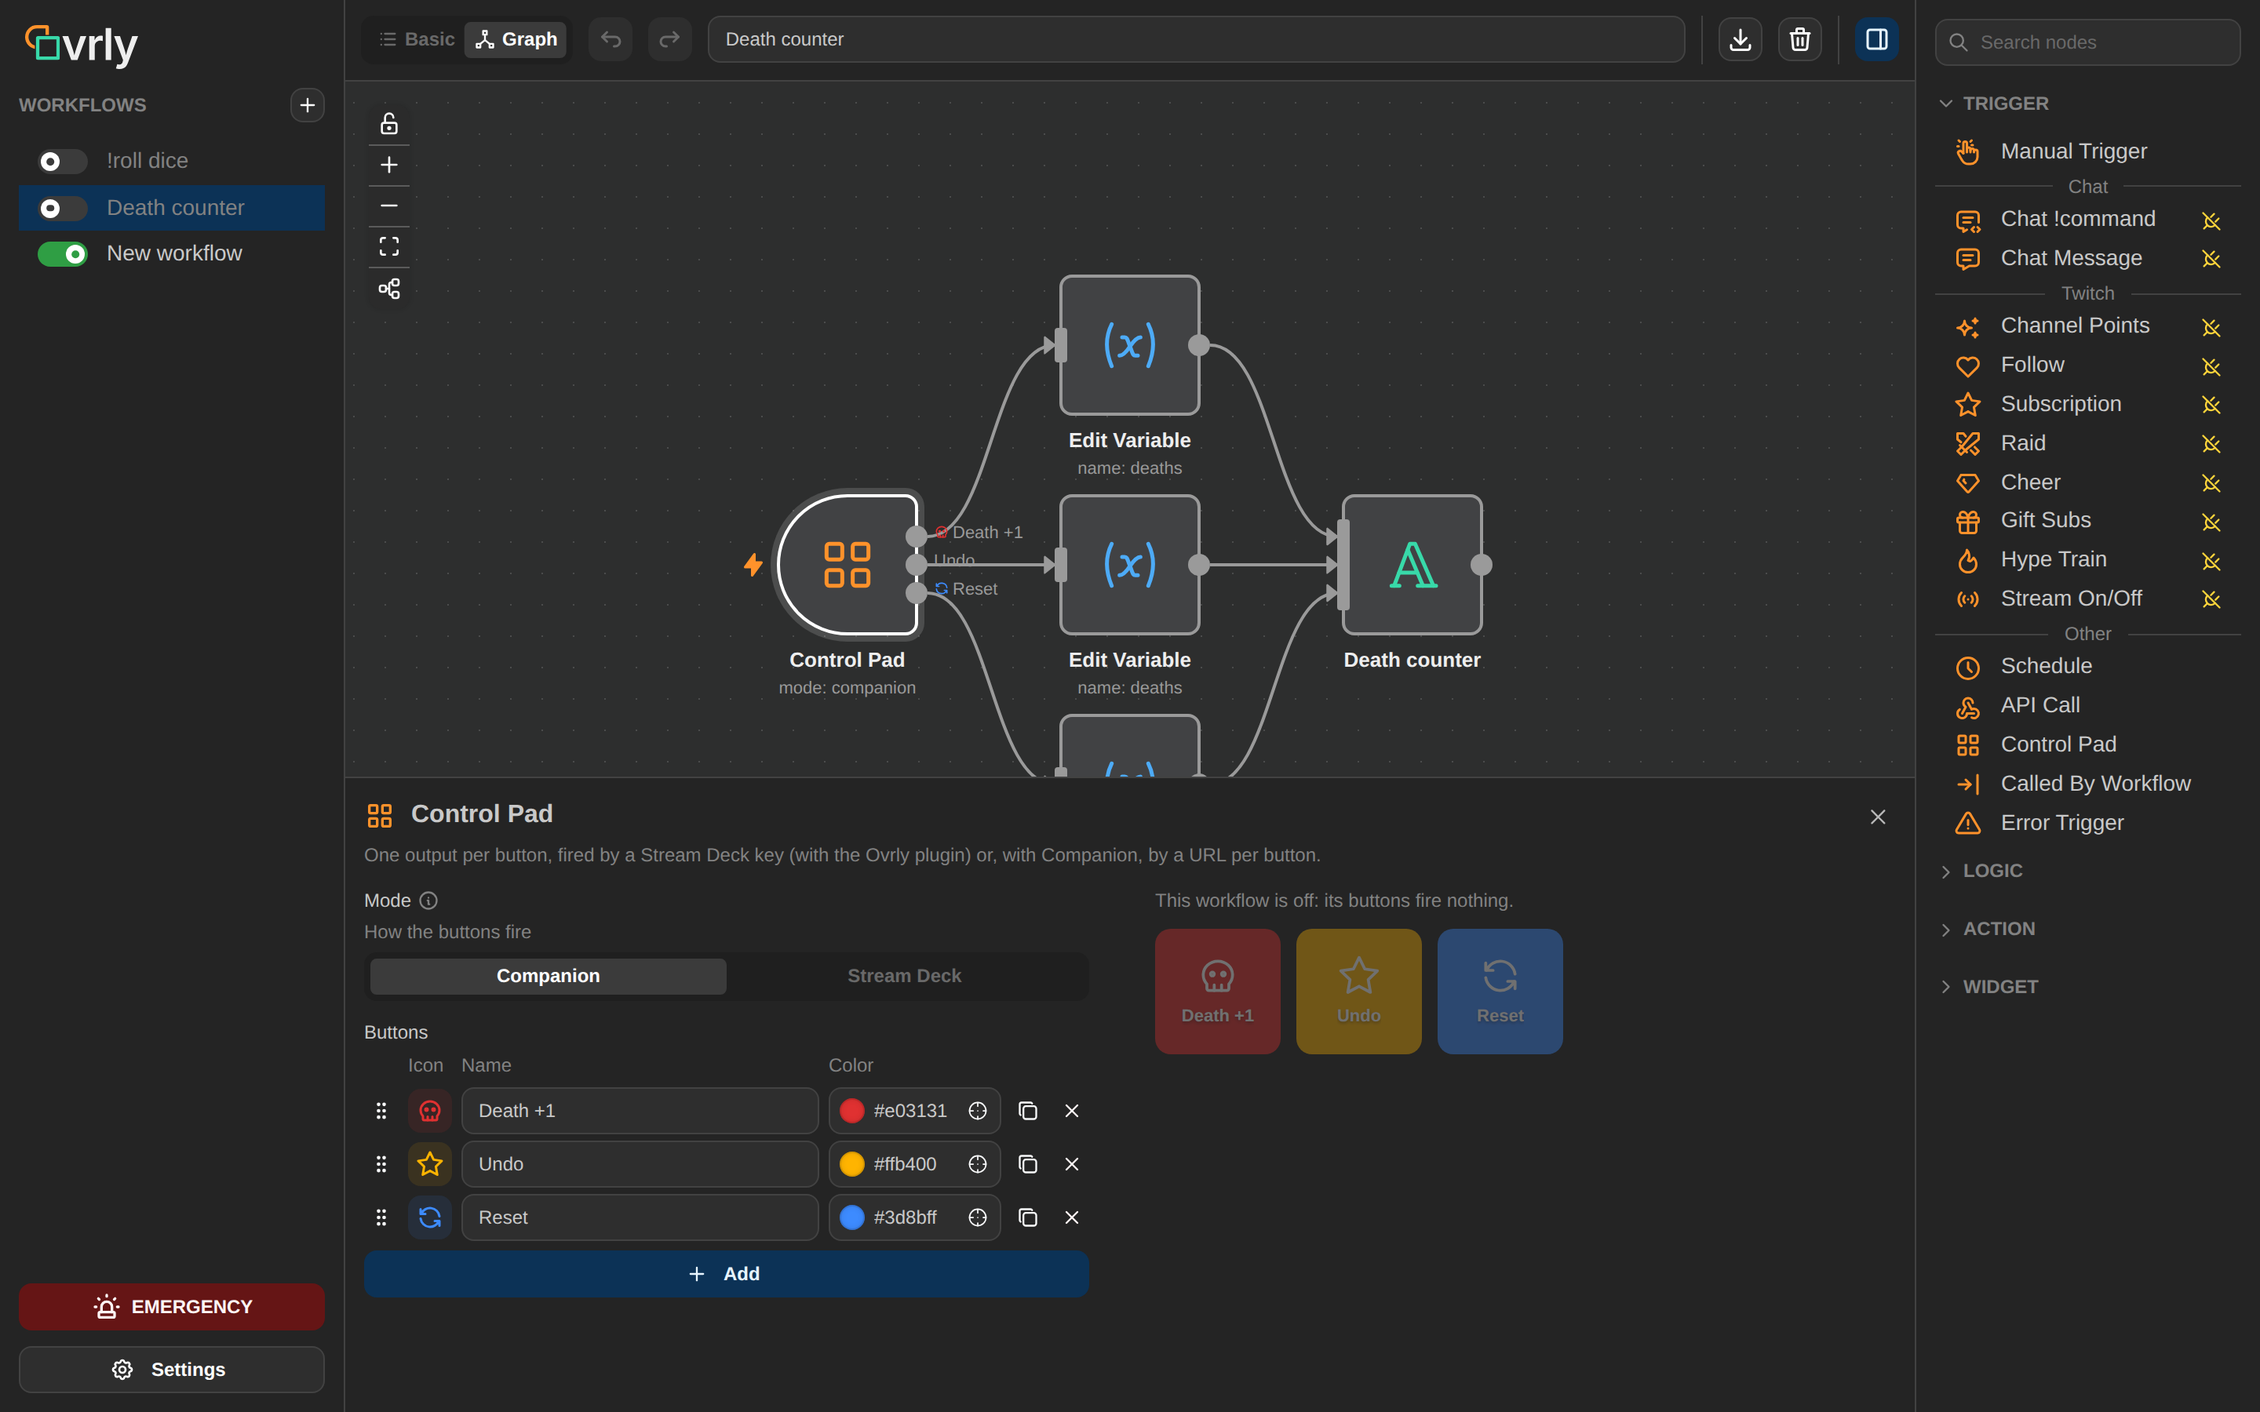
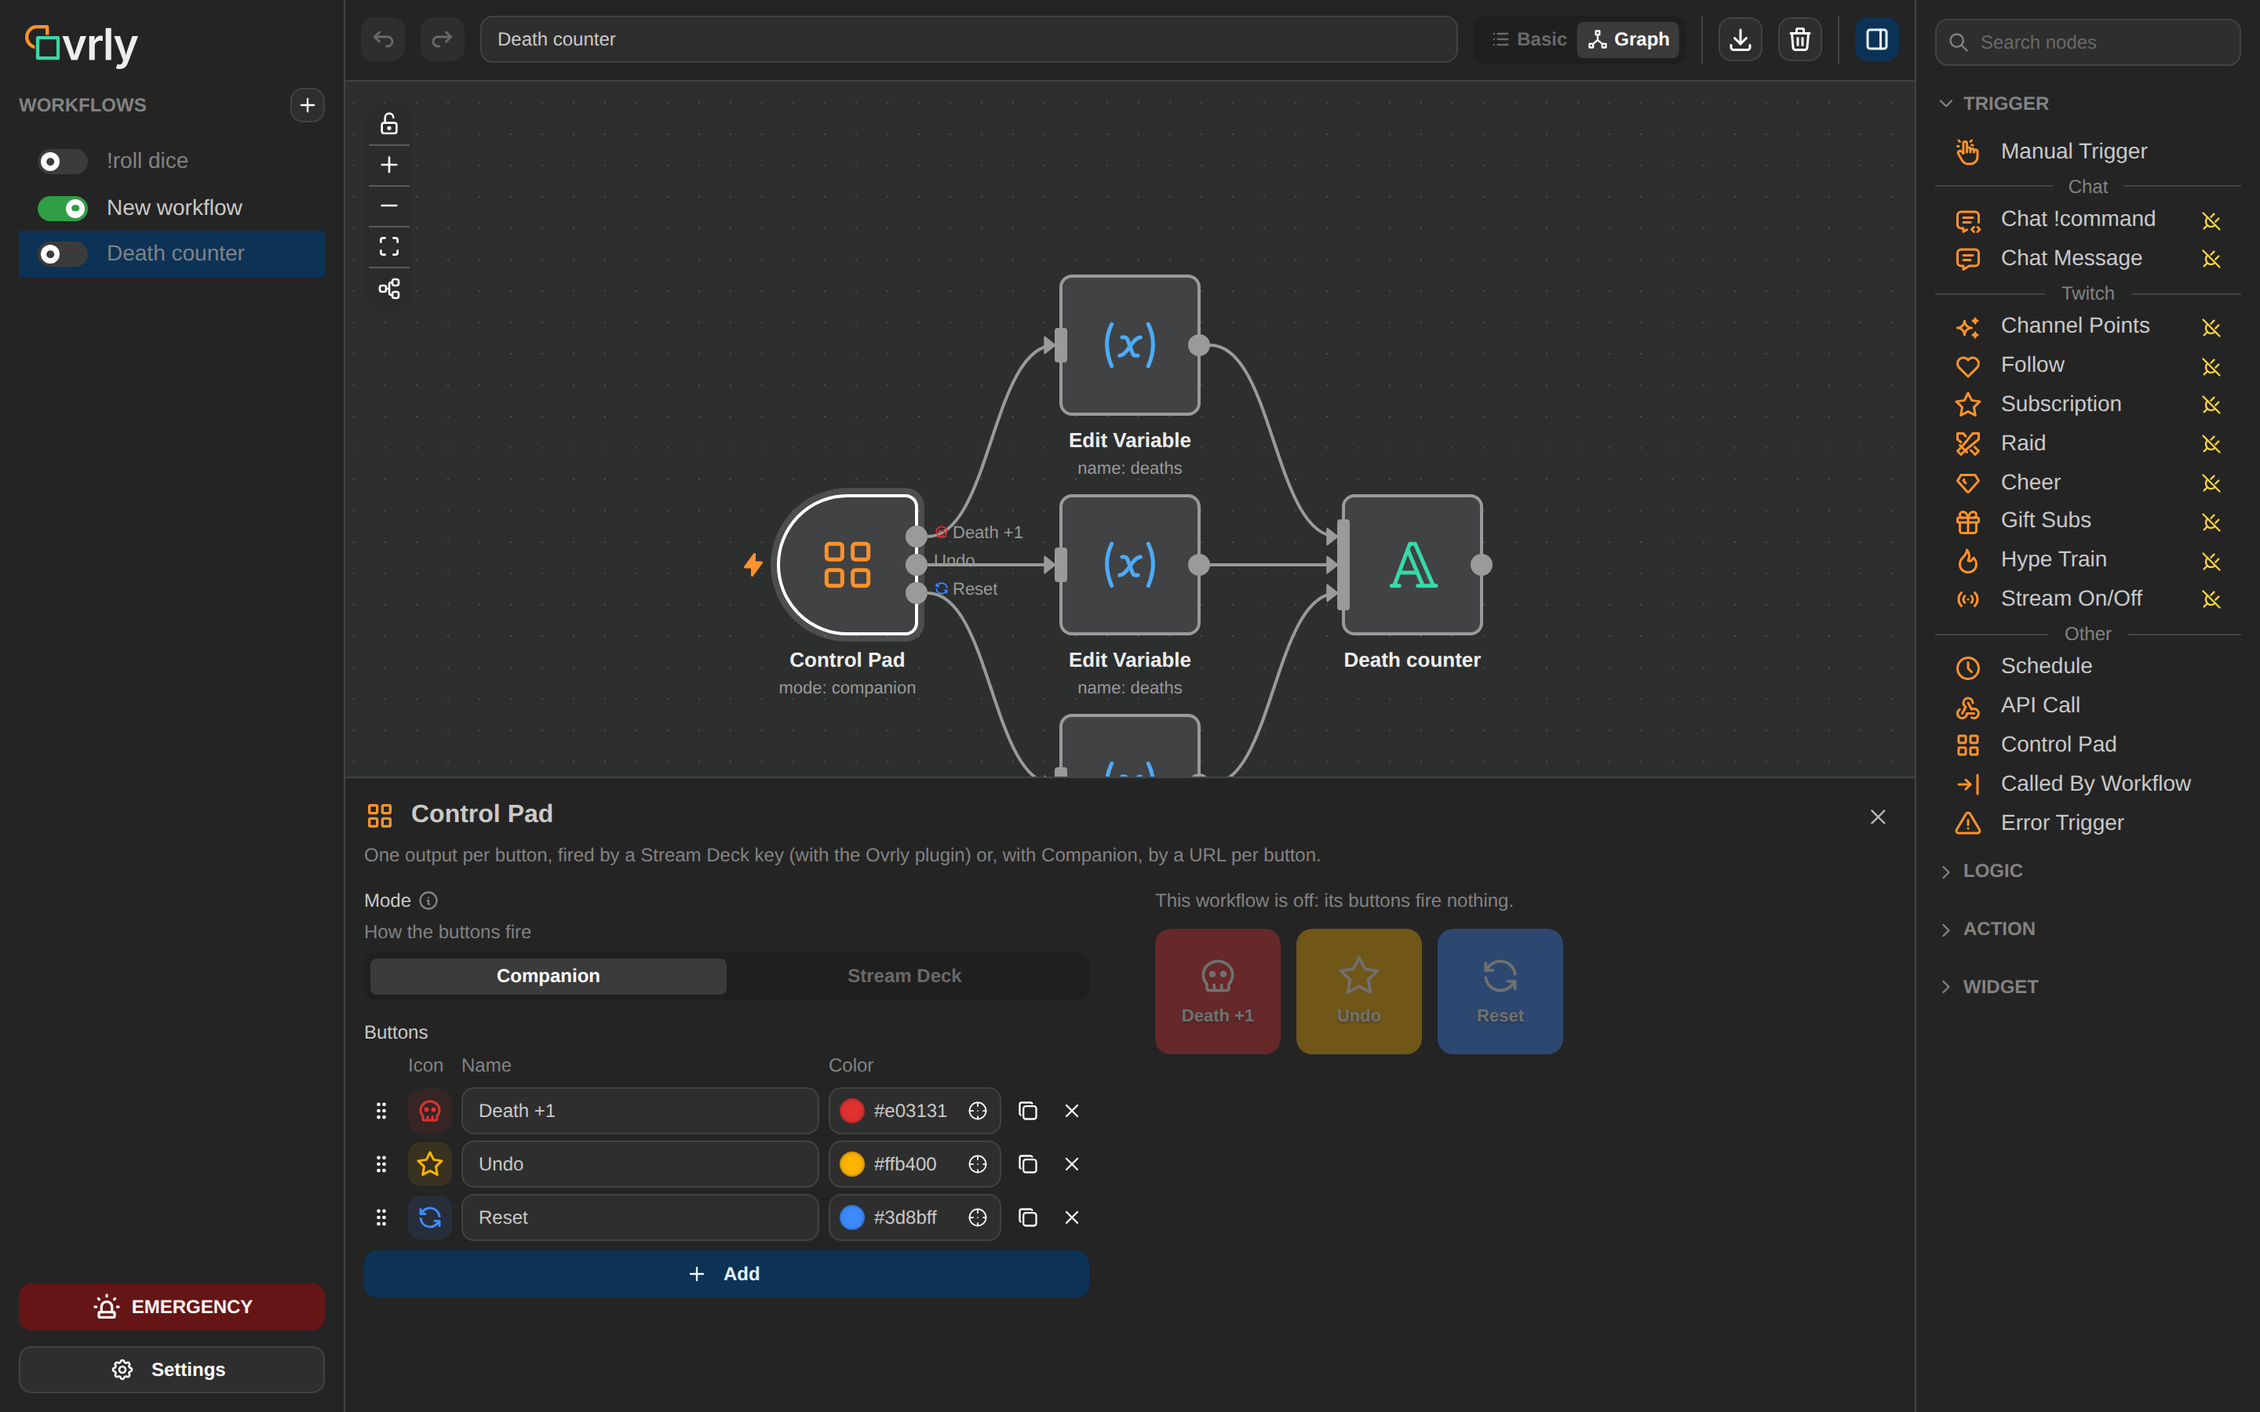
Basic view: each step has a grip left of its card that drags it to another place: the card follows the pointer (kept between the first and last step) and the steps between slide to make room, the new order saved once on drop (moveStep now takes the step's new index, the ⋯ menu's Move up / Move down 

diff --git a/ui/src/Basic.jsx b/ui/src/Basic.jsx
@@ -1,27 +1,63 @@
-// Basic view of a one-line workflow (chain.js): its trigger under "When", its steps under "Then", and "Add step". A card
-// opens the node's settings, like a click on the graph; its menu moves or deletes it; the trigger's bolt fires it. Library items dropped here are
-// added at the end (a trigger at the top).
-import { ActionIcon, Button, Menu, Stack, Text } from '@mantine/core'
-import { IconArrowDown, IconArrowUp, IconBox, IconDots, IconPlugOff, IconPlus, IconTrash } from '@tabler/icons-react'
+// Basic view of a one-line workflow (chain.js): its trigger under "When", its steps under "Then", and a dashed "+" placeholder for the next one. A card
+// opens the node's settings, like a click on the graph; its grip drags it to another place; its menu moves or deletes it; the trigger's bolt fires
+// it. Library items dropped here are added at the end (a trigger at the top).
+import { useRef, useState } from 'react'
+import { ActionIcon, Menu, Stack, Text } from '@mantine/core'
+import { IconArrowDown, IconArrowUp, IconBox, IconDots, IconGripVertical, IconPlugOff, IconPlus, IconTrash } from '@tabler/icons-react'
 import { Bolt, colors, subtitle } from './FlowNode.jsx'
 
 const Title = ({ children }) => <Text size="xs" fw={700} c="dimmed" tt="uppercase" mt="md" mb={6}>{children}</Text>
 const Link = () => <div className="basic-link" />
 
 // list: the chain's nodes as the graph shows them (data with def, widget, missing; className with the run state).
-// onSelect(id), onMove(id, -1 | 1), onDelete(id), onLibrary(): shows the library, onDrop(e).
+// onSelect(id), onMove(id, index in list), onDelete(id), onLibrary(): shows the library, onDrop(e).
 export default function Basic({ list, onSelect, onMove, onDelete, onLibrary, onDrop }) {
   const trigger = list[0]?.data.def?.category === 'trigger'
-  const steps = trigger ? list.slice(1) : list
+  const first = trigger ? 1 : 0 // where the steps start in list
+  // The step dragged by its grip: it follows the pointer (dy), the steps between its place (from) and where it would land
+  // (to) making room for it (h, its height), until dropped.
+  const [drag, setDrag] = useState(null) // { id, from, to, dy, h }
+  const stepsRef = useRef()
+  const steps = list.slice(first)
+  // Where it lands: after the other steps whose middle is above its own; it stays between the first and last step.
+  const grab = (e, id) => {
+    e.preventDefault()
+    const slots = [...stepsRef.current.children].map((el) => el.getBoundingClientRect())
+    const from = steps.findIndex((n) => n.id === id)
+    const h = slots[from].height
+    let to = from
+    const follow = (ev) => {
+      const dy = Math.min(Math.max(ev.clientY - e.clientY, slots[0].top - slots[from].top), slots.at(-1).top - slots[from].top)
+      const middle = slots[from].top + dy + h / 2
+      to = slots.filter((r, k) => k !== from && r.top + r.height / 2 < middle).length
+      setDrag({ id, from, to, dy, h })
+    }
+    const onUp = () => {
+      removeEventListener('pointermove', follow)
+      removeEventListener('pointerup', onUp)
+      setDrag(null)
+      if (to !== from) onMove(id, first + to)
+    }
+    addEventListener('pointermove', follow)
+    addEventListener('pointerup', onUp)
+    setDrag({ id, from, to, dy: 0, h })
+  }
+  const shift = (i) => !drag ? 0 : i === drag.from ? drag.dy
+    : drag.from < i && i <= drag.to ? -drag.h : drag.to <= i && i < drag.from ? drag.h : 0
   const card = (n, i) => {
     const isTrigger = n === list[0] && trigger
     const Icon = (n.data.type === 'widget' ? n.data.widgetType : n.data.def)?.Icon ?? IconBox
     const sub = subtitle(n.data)
     return (
       <div key={n.id} className={n.className}>
-        <div className={`basic-step${isTrigger ? ' trigger' : ''}${n.selected ? ' selected' : ''}`} role="button" tabIndex={0}
-          aria-label={n.ariaLabel} onClick={() => onSelect(n.id)} onKeyDown={(e) => e.key === 'Enter' && onSelect(n.id)}>
+        <div className={`basic-step${isTrigger ? ' trigger' : ''}${n.selected ? ' selected' : ''}${drag?.id === n.id ? ' dragging' : ''}`}
+          role="button" tabIndex={0} aria-label={n.ariaLabel} onClick={() => onSelect(n.id)} onKeyDown={(e) => e.key === 'Enter' && onSelect(n.id)}>
           {isTrigger && n.data.def?.manual && <Bolt onFire={n.data.fire} />}
+          {!isTrigger && (
+            <div className="grip" title="Drag to move" onPointerDown={(e) => grab(e, n.id)} onClick={(e) => e.stopPropagation()}>
+              <IconGripVertical size={18} />
+            </div>
+          )}
           <Icon size={28} stroke={1.5} color={colors[n.data.def?.category]} style={{ flexShrink: 0 }} />
           <div style={{ flex: 1, minWidth: 0 }}>
             <Text size="sm" fw={600} truncate>{n.ariaLabel}</Text>
@@ -35,8 +71,8 @@ export default function Basic({ list, onSelect, onMove, onDelete, onLibrary, onD
               <ActionIcon variant="subtle" color="gray" aria-label="Step actions" onClick={(e) => e.stopPropagation()}><IconDots size={16} /></ActionIcon>
             </Menu.Target>
             <Menu.Dropdown onClick={(e) => e.stopPropagation()}>
-              {!isTrigger && <Menu.Item leftSection={<IconArrowUp size={14} />} disabled={i === 0} onClick={() => onMove(n.id, -1)}>Move up</Menu.Item>}
-              {!isTrigger && <Menu.Item leftSection={<IconArrowDown size={14} />} disabled={i === steps.length - 1} onClick={() => onMove(n.id, 1)}>Move down</Menu.Item>}
+              {!isTrigger && <Menu.Item leftSection={<IconArrowUp size={14} />} disabled={i === 0} onClick={() => onMove(n.id, first + i - 1)}>Move up</Menu.Item>}
+              {!isTrigger && <Menu.Item leftSection={<IconArrowDown size={14} />} disabled={i === steps.length - 1} onClick={() => onMove(n.id, first + i + 1)}>Move down</Menu.Item>}
               <Menu.Item color="red" leftSection={<IconTrash size={14} />} onClick={() => onDelete(n.id)}>Delete</Menu.Item>
             </Menu.Dropdown>
           </Menu>
@@ -45,7 +81,7 @@ export default function Basic({ list, onSelect, onMove, onDelete, onLibrary, onD
     )
   }
   return (
-    <div className="basic" onDrop={onDrop} onDragOver={(e) => e.preventDefault()}>
+    <div className={`basic${drag ? ' sorting' : ''}`} onDrop={onDrop} onDragOver={(e) => e.preventDefault()}>
       <Stack className="basic-list" gap={0}>
         <Title>When</Title>
         {trigger ? card(list[0]) : (
@@ -53,13 +89,19 @@ export default function Basic({ list, onSelect, onMove, onDelete, onLibrary, onD
             <Text size="sm" c="dimmed">Pick a trigger in the library: double-click it, or drag it here.</Text>
           </button>
         )}
-        {steps.length > 0 && <><Link /><Title>Then</Title></>}
-        {steps.map((n, i) => <div key={n.id}>{i > 0 && <Link />}{card(n, i)}</div>)}
+        {list.length > 0 && <><Link /><Title>Then</Title></>}
+        <div ref={stepsRef}>
+          {steps.map((n, i) => (
+            <div key={n.id} className="basic-slot" style={{ transform: shift(i) ? `translateY(${shift(i)}px)` : undefined, zIndex: drag?.id === n.id ? 1 : undefined }}>
+              {card(n, i)}<Link />
+            </div>
+          ))}
+        </div>
         {list.length > 0 && (
-          <Stack align="center" gap={4} mt="md">
-            <Button size="xs" variant="light" leftSection={<IconPlus size={14} />} onClick={onLibrary}>Add step</Button>
-            <Text size="xs" c="dimmed">Double-click a node in the library, or drag it here.</Text>
-          </Stack>
+          <>
+            <div className="basic-step add" aria-hidden><IconPlus size={20} /></div>
+            <Text size="xs" c="dimmed" ta="center" mt={4}>Double-click a node in the library, or drag it here.</Text>
+          </>
         )}
       </Stack>
     </div>

diff --git a/ui/src/Workflow.jsx b/ui/src/Workflow.jsx
@@ -563,10 +563,9 @@ function Editor({ workflow, defs, widgets, types, off, openNode, onRename, onDel
     setNodes(list.map((n, i) => ({ ...n, selected: n.id === select, position: { x: start.x + i * (NODE + CAPTION + GRID), y: start.y } })))
     setEdges(relink(list, edges, firstOutput))
   }
-  const moveStep = (id, by) => {
-    const list = [...chain]
-    const i = list.findIndex((n) => n.id === id)
-    ;[list[i], list[i + by]] = [list[i + by], list[i]]
+  const moveStep = (id, to) => {
+    const list = chain.filter((n) => n.id !== id)
+    list.splice(to, 0, chain.find((n) => n.id === id))
     setChain(list, selected?.id)
   }
   // Back to the graph: fitted, as the Basic edits moved its nodes.
@@ -722,12 +721,6 @@ function Editor({ workflow, defs, widgets, types, off, openNode, onRename, onDel
     <>
       <AppShell.Main className="editor">
         <Group gap="xs" p="xs" wrap="nowrap" style={{ borderBottom: '1px solid var(--mantine-color-default-border)' }}>
-          <Tooltip label="Has branches: edit it in the graph" disabled={!!chain}>
-            <SegmentedControl size="xs" value={basic ? 'basic' : 'graph'} onChange={pickView} aria-label="View" data={[
-              { value: 'basic', disabled: !chain, label: <Group gap={4} wrap="nowrap"><IconList size={14} />Basic</Group> },
-              { value: 'graph', label: <Group gap={4} wrap="nowrap"><IconHierarchy2 size={14} />Graph</Group> },
-            ]} />
-          </Tooltip>
           <Tooltip label="Undo (Ctrl+Z)">
             <ActionIcon size="md" variant="default" aria-label="Undo" disabled={!history.current.past.length} onClick={undo}><IconArrowBackUp size={18} /></ActionIcon>
           </Tooltip>
@@ -735,6 +728,12 @@ function Editor({ workflow, defs, widgets, types, off, openNode, onRename, onDel
             <ActionIcon size="md" variant="default" aria-label="Redo" disabled={!history.current.future.length} onClick={redo}><IconArrowForwardUp size={18} /></ActionIcon>
           </Tooltip>
           <TextInput flex={1} miw={80} size="xs" aria-label="Workflow name" value={name} onChange={(e) => setName(e.target.value)} />
+          <Tooltip label="Has branches: edit it in the graph" disabled={!!chain}>
+            <SegmentedControl size="xs" value={basic ? 'basic' : 'graph'} onChange={pickView} aria-label="View" data={[
+              { value: 'basic', disabled: !chain, label: <Group gap={4} wrap="nowrap"><IconList size={14} />Basic</Group> },
+              { value: 'graph', label: <Group gap={4} wrap="nowrap"><IconHierarchy2 size={14} />Graph</Group> },
+            ]} />
+          </Tooltip>
           <Divider orientation="vertical" />
           <Tooltip label="Export as JSON">
             <ActionIcon size="md" variant="default" aria-label="Export as JSON" onClick={() => exportWorkflow(workflow.id).then((b) => download(b, name))}><IconDownload size={18} /></ActionIcon>

diff --git a/ui/src/app.css b/ui/src/app.css
@@ -82,9 +82,19 @@
 /* Basic view (Basic.jsx): one column of cards on the canvas color, drawn like graph nodes. */
 .basic { flex: 1; min-height: 0; overflow-y: auto; background: var(--ovrly-canvas); }
 .basic-list { width: min(420px, 100% - 32px); margin: 0 auto; padding-bottom: var(--mantine-spacing-xl); }
-.basic-step { display: flex; align-items: center; gap: 12px; width: 100%; padding: 10px 12px; background: var(--ovrly-node); border: 2px solid var(--ovrly-line); border-radius: 8px; cursor: pointer; text-align: left; font: inherit; }
-.basic-step.trigger { position: relative; border-radius: 30px 8px 8px 30px; padding-left: 18px; }
+.basic-step { position: relative; display: flex; align-items: center; gap: 12px; width: 100%; padding: 10px 12px; background: var(--ovrly-node); border: 2px solid var(--ovrly-line); border-radius: 8px; cursor: pointer; text-align: left; font: inherit; }
+.basic-step.trigger { border-radius: 30px 8px 8px 30px; padding-left: 18px; }
 .basic-step.empty { border-style: dashed; }
+.basic-step.add { justify-content: center; min-height: 52px; border-style: dashed; background: transparent; color: var(--mantine-color-dimmed); cursor: default; }
+.basic-step.dragging { box-shadow: 0 6px 16px rgba(0, 0, 0, 0.35); }
+/* A step's grip, left of its card like a trigger's bolt. */
+.basic-step .grip { position: absolute; left: -28px; line-height: 0; color: var(--mantine-color-dimmed); cursor: grab; touch-action: none; }
+.basic-step .grip:hover, .basic-step.dragging .grip { color: var(--mantine-color-text); }
+/* While a step is dragged, the others slide to make room for it. */
+.basic-slot { position: relative; }
+.basic.sorting .basic-slot { transition: transform 150ms; }
+.basic.sorting .basic-slot:has(.dragging) { transition: none; }
+.basic.sorting, .basic.sorting * { cursor: grabbing !important; }
 .basic-step.selected { border-color: var(--ovrly-selected); box-shadow: 0 0 0 4px color-mix(in srgb, var(--ovrly-selected) 15%, transparent); }
 /* The graph stays under it, measured but clipped away (its nodes set their own visibility); !important beats
    ReactFlow's inline position. */

diff --git a/docs/streamer/editor.md b/docs/streamer/editor.md
@@ -12,7 +12,7 @@
 
 ## Middle: Basic or Graph
 
-**Basic | Graph**, at the left of the toolbar, picks how the workflow shows. Each workflow remembers its choice; a Blank one starts in Basic.
+**Basic | Graph**, right of the workflow's name in the toolbar, picks how the workflow shows. Each workflow remembers its choice; a Blank one starts in Basic.
 
 ### Basic: a list of steps
 
@@ -20,8 +20,8 @@ For one-line workflows, e.g. an alert on a new follower: a trigger under **When*
 
 ![The Basic view: Follow, then an Alerts widget](/screenshots/basic-view.png)
 
-- **Pick the trigger** and **add steps** from the library (double-click, or drag onto the list): a step goes at the end.
-- **Click** a step to open its settings. Its **⋯** menu moves it up or down, or deletes it (the steps around it stay linked).
+- **Pick the trigger** and **add steps** from the library (double-click, or drag onto the list): a step goes at the end. The dashed **+** below the steps marks where the next one goes.
+- **Click** a step to open its settings. **Drag** it by its grip (left of the card) to move it, the other steps making room; its **⋯** menu also moves it up or down, or deletes it (the steps around it stay linked).
 - The **⚡** left of the trigger fires it (see [Fire a trigger](#fire-a-trigger)).
 - The library leaves out what makes branches (If / Else, Switch, Fan Out…): its link at the bottom switches to the graph for those.
 
@@ -29,7 +29,7 @@ Basic is available while the workflow is one line: one trigger, each node linked
 
 ### Graph
 
-The toolbar has undo/redo, the workflow's name, then export, delete, and show/hide the library.
+The toolbar has undo/redo, the workflow's name, Basic | Graph, then export, delete, and show/hide the library.
 
 - **Add a node**: drag it from the library, or double-click it (or press Enter on it): it is added after the selected node, and linked from it.
 - **Link** nodes by dragging from an output (right) to an input (left). Data flows along the links.
